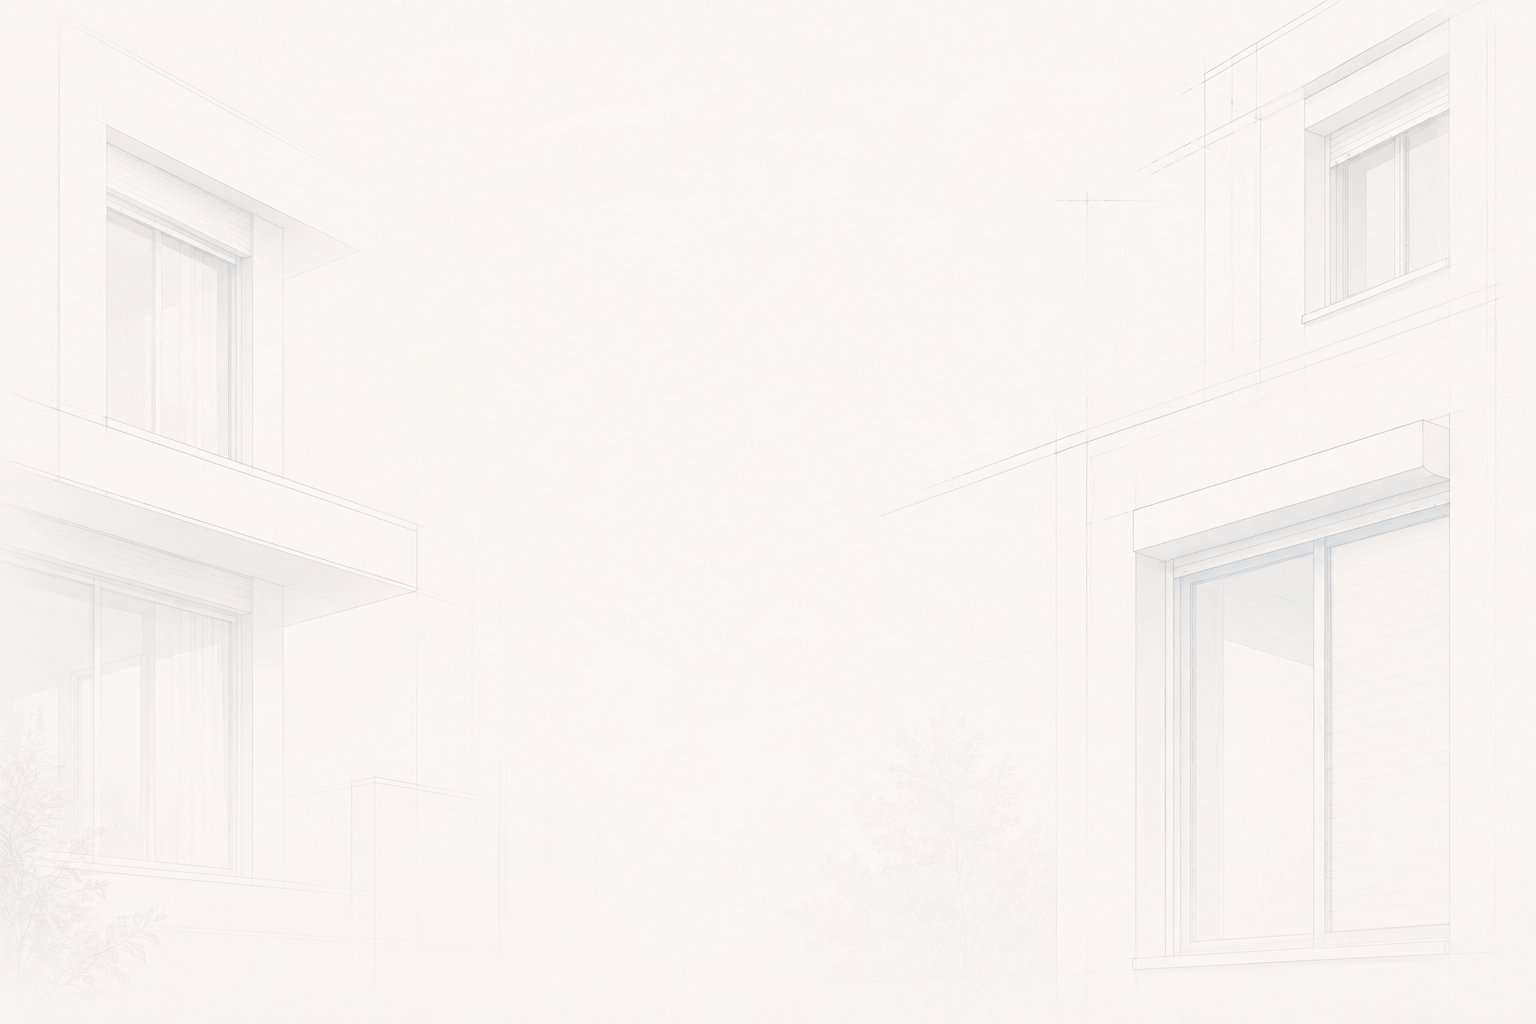
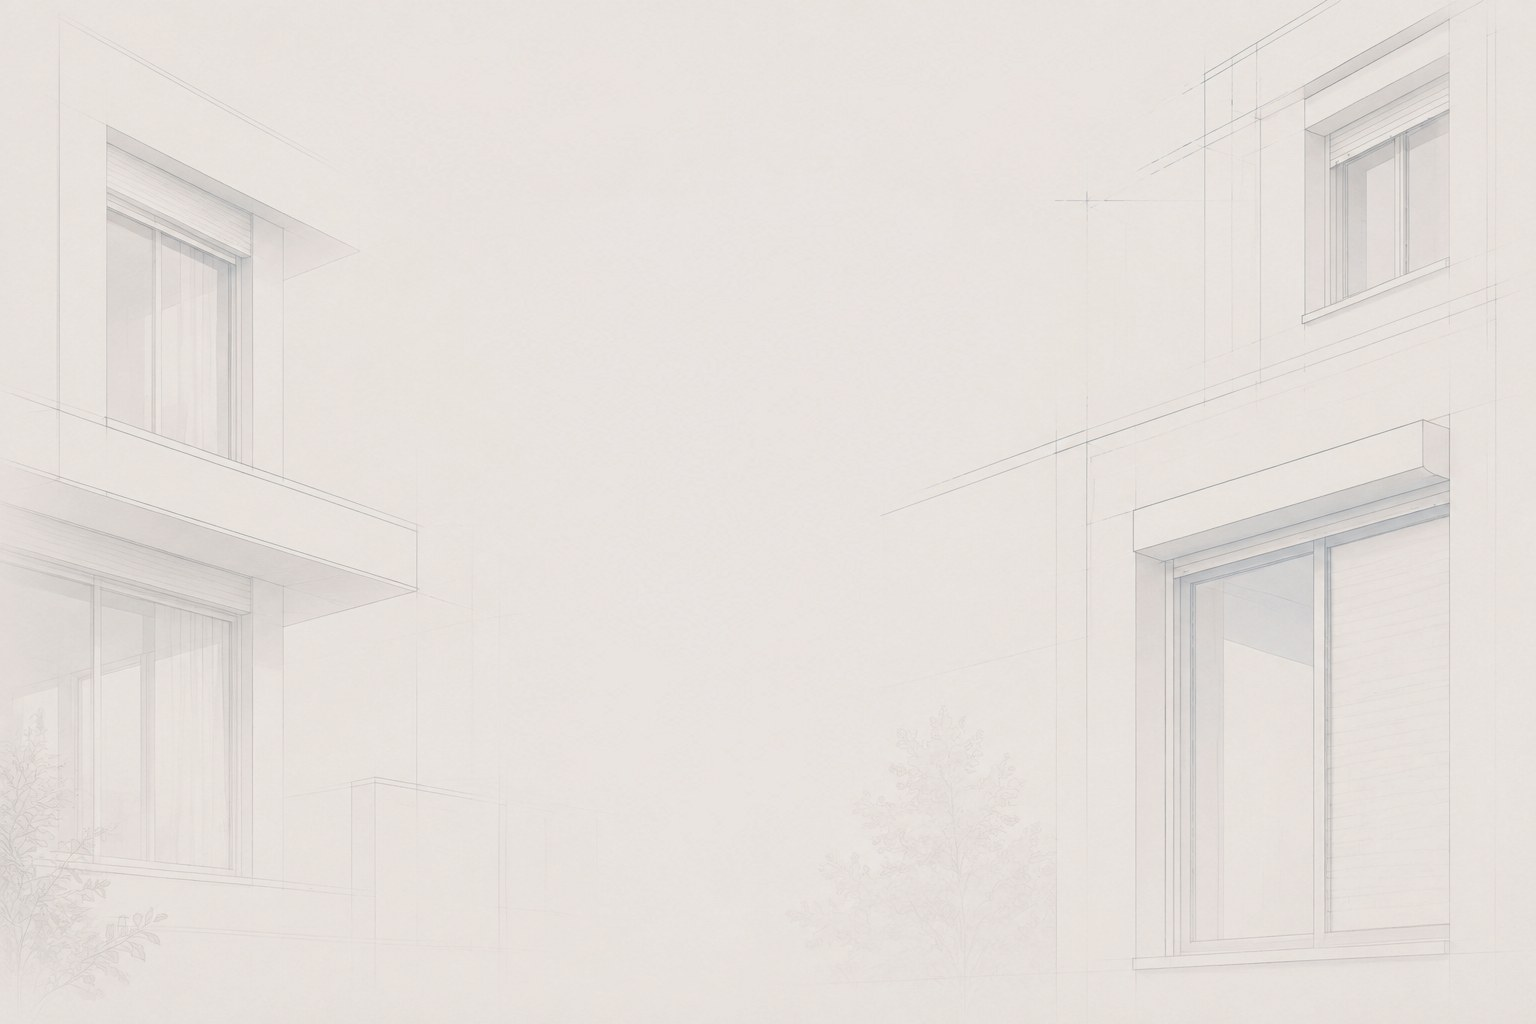
Fix visibilità sfondo serramento

diff --git a/public/style.css b/public/style.css
@@ -24,9 +24,9 @@ body {
      con due aloni di colore ispirati al verde/rosso del brand sopra. */
   background-color: #f7f8f6;
   background-image:
-    radial-gradient(circle at 12% 8%, rgba(29,111,92,.14), transparent 42%),
-    radial-gradient(circle at 92% 12%, rgba(192,57,43,.10), transparent 38%),
-    linear-gradient(160deg, rgba(238,246,241,.9) 0%, rgba(245,246,244,.85) 45%, rgba(253,241,238,.9) 100%),
+    radial-gradient(circle at 12% 8%, rgba(29,111,92,.16), transparent 42%),
+    radial-gradient(circle at 92% 12%, rgba(192,57,43,.12), transparent 38%),
+    linear-gradient(160deg, rgba(238,246,241,.35) 0%, rgba(245,246,244,.25) 45%, rgba(253,241,238,.35) 100%),
     url('assets/sfondo-serramenti.jpg');
   background-repeat: no-repeat, no-repeat, no-repeat, no-repeat;
   background-size: cover, cover, cover, cover;
